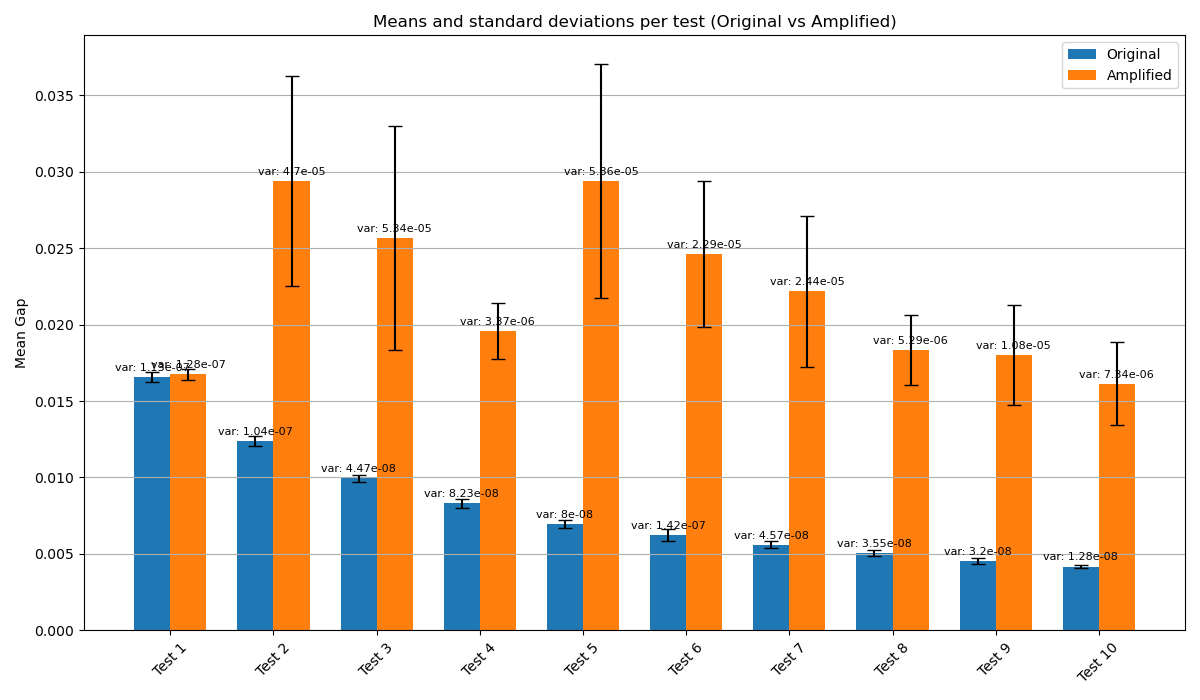
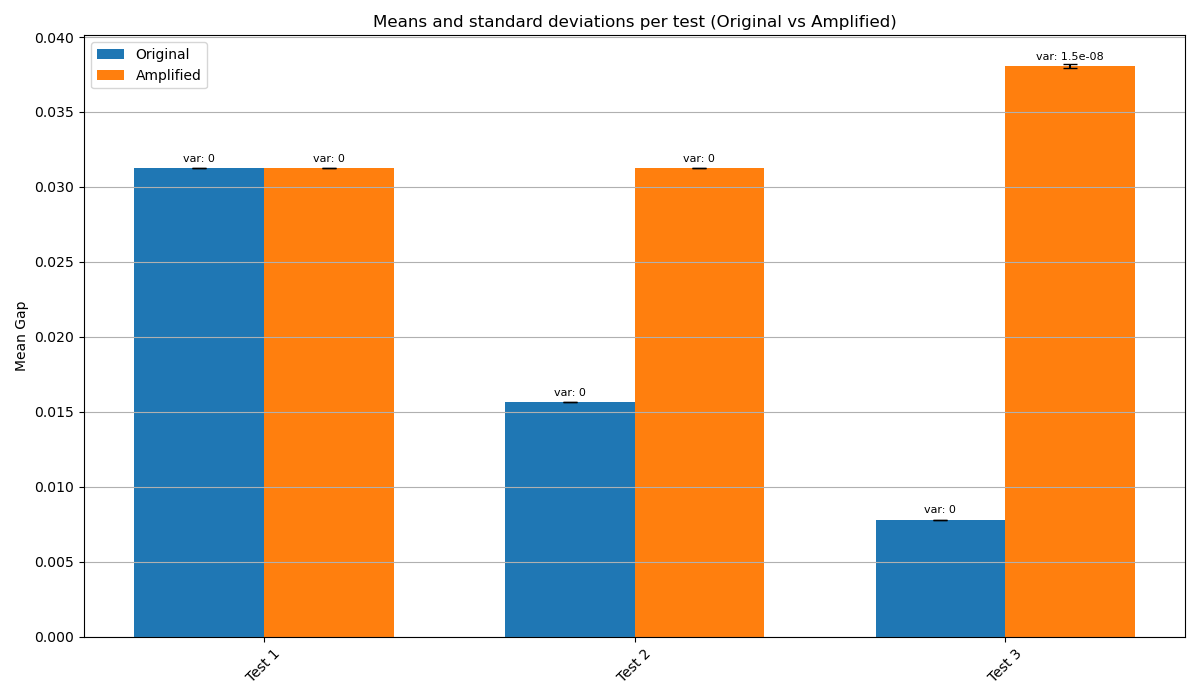
updated result run

diff --git a/test/e2e/test_three_color_gap_amplification_pseudo.cpp b/test/e2e/test_three_color_gap_amplification_pseudo.cpp
@@ -18,24 +18,24 @@ std::vector<std::function<void(std::ofstream&)>> test_cases = {
         three_color::ThreeColor input = three_color::generate_non_three_colorable_graph(30, 32, 10, 10, 10);
         pcp::BitPCP bitpcp = input.to_BitPCP(pcpp::TesterType::PSEUDO);
         pcp::BitPCP amplified_pcp = core::three_color_gap_amplification(input, pcpp::TesterType::PSEUDO, test_iteration_func);
-        double original_soundness = analyzer::approximate_soundness(bitpcp, std::min(bitpcp.get_constraints_list().size() * 5, static_cast<size_t>(100000)));
-        double amplified_soundness = analyzer::approximate_soundness(amplified_pcp, std::min(amplified_pcp.get_constraints_list().size() * 5, static_cast<size_t>(100000)));
+        double original_soundness = 31.0 / 32;
+        double amplified_soundness = analyzer::approximate_soundness(amplified_pcp, std::min(amplified_pcp.get_constraints_list().size() * 10, static_cast<size_t>(100000)));
         fout << "original gap: " << 1 - original_soundness << ", amplified gap: " << 1 - amplified_soundness << std::endl;
     },
     [](std::ofstream &fout) -> void {
         three_color::ThreeColor input = three_color::generate_non_three_colorable_graph(30, 64, 10, 10, 10);
         pcp::BitPCP bitpcp = input.to_BitPCP(pcpp::TesterType::PSEUDO);
         pcp::BitPCP amplified_pcp = core::three_color_gap_amplification(input, pcpp::TesterType::PSEUDO, test_iteration_func);
-        double original_soundness = analyzer::approximate_soundness(bitpcp, std::min(bitpcp.get_constraints_list().size() * 5, static_cast<size_t>(100000)));
-        double amplified_soundness = analyzer::approximate_soundness(amplified_pcp, std::min(amplified_pcp.get_constraints_list().size() * 5, static_cast<size_t>(100000)));
+        double original_soundness = 63.0 / 64;
+        double amplified_soundness = analyzer::approximate_soundness(amplified_pcp, std::min(amplified_pcp.get_constraints_list().size() * 10, static_cast<size_t>(100000)));
         fout << "original gap: " << 1 - original_soundness << ", amplified gap: " << 1 - amplified_soundness << std::endl;
     },
     [](std::ofstream &fout) -> void {
         three_color::ThreeColor input = three_color::generate_non_three_colorable_graph(30, 128, 10, 10, 10);
         pcp::BitPCP bitpcp = input.to_BitPCP(pcpp::TesterType::PSEUDO);
         pcp::BitPCP amplified_pcp = core::three_color_gap_amplification(input, pcpp::TesterType::PSEUDO, test_iteration_func);
-        double original_soundness = analyzer::approximate_soundness(bitpcp, std::min(bitpcp.get_constraints_list().size() * 5, static_cast<size_t>(100000)));
-        double amplified_soundness = analyzer::approximate_soundness(amplified_pcp, std::min(amplified_pcp.get_constraints_list().size() * 5, static_cast<size_t>(100000)));
+        double original_soundness = 127.0 / 128;
+        double amplified_soundness = analyzer::approximate_soundness(amplified_pcp, std::min(amplified_pcp.get_constraints_list().size() * 10, static_cast<size_t>(1000000)));
         fout << "original gap: " << 1 - original_soundness << ", amplified gap: " << 1 - amplified_soundness << std::endl;
     },
 };

diff --git a/src/three_color/generators.cpp b/src/three_color/generators.cpp
@@ -141,12 +141,13 @@ ThreeColor generate_non_three_colorable_graph(size_t num_nodes, size_t num_edges
     }
     ThreeColor graph = generate_valid_three_coloring_graph(num_nodes, num_edges - 6, num_red, num_green, num_blue);
     // Add 5 edges that violates the coloring
-    graph.add_edge(0, 1);
-    graph.add_edge(0, 2);
-    graph.add_edge(0, 3);
-    graph.add_edge(1, 2);
-    graph.add_edge(2, 3);
-    graph.add_edge(1, 3);
+    Node u = 0, v = 1, w = num_red + 1, x = num_red + num_green + 1;
+    graph.add_edge(u, v);
+    graph.add_edge(v, w);
+    graph.add_edge(w, x);
+    graph.add_edge(x, u);
+    graph.add_edge(u, w);
+    graph.add_edge(v, x);
     return graph;
 }
 
